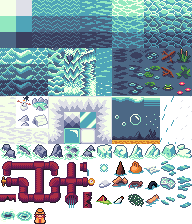
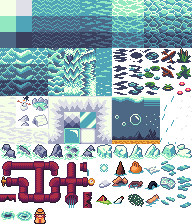
change sprites

Changed region(s): [[0.5625, 0.1875, 1.0, 0.4375]]

diff --git a/src/map.cpp b/src/map.cpp
@@ -32,15 +32,10 @@ void displayMap(std::vector<Cell> const &map)
     }
 }
 
-unsigned int generateMapValue(bool const random) // TODO : remove random at the end of the project and the if (random)
+unsigned int generateMapValue()
 {
-    if (random)
-    {
-        // TODO : possible to change std::rand to take into account probabilities
-        int mapValue{std::rand() % 2}; // return 0 or 1 --> empty or plain
-        return mapValue;
-    }
-    return 1;
+    int mapValue{std::rand() % 2}; // return 0 or 1 --> empty or plain
+    return mapValue;
 }
 
 std::vector<Cell> generateMap(size_t const height, size_t const width)
@@ -51,10 +46,8 @@ std::vector<Cell> generateMap(size_t const height, size_t const width)
     {
         for (size_t x{}; x < width; x++)
         {
-            unsigned int value{generateMapValue(true)};
+            unsigned int value{generateMapValue()};
             Cell cell{{x, y}, value};
-            // std::cout << cell.positions.x << ", " << cell.positions.y << "; ";
-
             map.push_back(cell);
         }
     }
@@ -104,10 +97,6 @@ std::optional<Cell> findNeighbour(std::vector<Cell> const &map, Cell const &cell
 std::vector<Cell> adjacentCells(std::vector<Cell> const &map, Cell const &cell) // return vect of adjacent cells
 {
     std::vector<Cell> neighbours{};
-
-    // std::cout << "actuel : \n \tx : " << cell.positions.x << ", y : " << cell.positions.y << ", value : " << cell.value << std::endl;
-
-    // std::cout << "voisins : " << std::endl;
     for (int y{-1}; y <= 1; y++)
     {
         for (int x{1}; x >= -1; x--)
@@ -116,8 +105,6 @@ std::vector<Cell> adjacentCells(std::vector<Cell> const &map, Cell const &cell) 
             if ((x != 0 || y != 0) && adjacentCell.has_value())
             {
                 neighbours.push_back(adjacentCell.value());
-                // std::cout << "\tx : " << adjacentCell.value().positions.x << ", y : " << adjacentCell.value().positions.y
-                //           << ", value : " << adjacentCell.value().value << std::endl;
             }
         }
     }
@@ -168,7 +155,8 @@ std::vector<Cell> generateCellularMap(std::vector<Cell> const &map, int nbIterat
 
 void displayValuedMap(std::vector<Cell> const &map)
 {
-    std::cout << "\n" << std::endl;
+    std::cout << "\n"
+              << std::endl;
 
     for (Cell cell : map)
     {
@@ -189,7 +177,8 @@ void displayValuedMap(std::vector<Cell> const &map)
 
 void displayDirectedMap(std::vector<CellDirection> const &map)
 {
-    std::cout << "\n" << std::endl;
+    std::cout << "\n"
+              << std::endl;
 
     for (CellDirection cell : map)
     {
@@ -224,39 +213,48 @@ void displayDirectedMap(std::vector<CellDirection> const &map)
     }
 }
 
-void addObjectsAndTraps(std::vector<Cell>& map) {
+void addObjectsAndTraps(std::vector<Cell> &map)
+{
     std::srand(std::time(nullptr));
-    
+
     // Collecter toutes les cellules d'eau
-    std::vector<Cell*> waterCells;
-    for(Cell& cell : map) {
-        if(cell.value == 0) {
+    std::vector<Cell *> waterCells;
+    for (Cell &cell : map)
+    {
+        if (cell.value == 0)
+        {
             waterCells.push_back(&cell);
         }
     }
-    
+
     // Mélanger les cellules pour un placement aléatoire
     std::random_shuffle(waterCells.begin(), waterCells.end());
-    
+
     int objectsPlaced = 0;
     int trapsPlaced = 0;
-    
+
     // Placer d'abord le nombre minimum d'objets requis
-    for(int i = 0; i < std::min(numberOfObjects, (int)waterCells.size()); i++) {
-        waterCells[i]->value = 4;  // Objet
+    for (int i = 0; i < std::min(numberOfObjects, (int)waterCells.size()); i++)
+    {
+        waterCells[i]->value = 4; // Objet
         objectsPlaced++;
     }
-    
+
     // Placer des pièges et objets supplémentaires de manière aléatoire
-    for(int i = numberOfObjects; i < waterCells.size(); i++) {
+    for (int i = numberOfObjects; i < waterCells.size(); i++)
+    {
         int probO = std::rand() % (probObjectSpawn + 1);
         int probT = std::rand() % (probTrap + 1);
-        
-        if(!((probO == probObjectSpawn) && (probT == probTrap))) {
-            if(probO == probObjectSpawn) {
+
+        if (!((probO == probObjectSpawn) && (probT == probTrap)))
+        {
+            if (probO == probObjectSpawn)
+            {
                 waterCells[i]->value = 4;
                 objectsPlaced++;
-            } else if (probT == probTrap) {
+            }
+            else if (probT == probTrap)
+            {
                 waterCells[i]->value = 5;
                 trapsPlaced++;
             }
@@ -264,33 +262,43 @@ void addObjectsAndTraps(std::vector<Cell>& map) {
     }
 }
 
-void addMinableBlocs(std::vector<Cell>& map) {
+void addMinableBlocs(std::vector<Cell> &map)
+{
     std::srand(std::time(nullptr));
 
-    for(Cell& cell: map) {
+    for (Cell &cell : map)
+    {
         int probMinableB{std::rand() % (probMinableBloc + 1)};
 
-        if(cell.value == 1) {
-            if(probMinableB == probMinableBloc) {
+        if (cell.value == 1)
+        {
+            if (probMinableB == probMinableBloc)
+            {
                 cell.value = 2;
-            } 
+            }
         }
     }
 }
 
-void addBonusBlocks(std::vector<Cell>& map) {
+void addBonusBlocks(std::vector<Cell> &map)
+{
     std::srand(std::time(nullptr));
 
-    for(Cell& cell: map) {
-        int probBonus{std::rand()%probBonusBloc};
-        int probBoost{std::rand()%probBoosterBloc};
+    for (Cell &cell : map)
+    {
+        int probBonus{std::rand() % probBonusBloc};
+        int probBoost{std::rand() % probBoosterBloc};
 
-        if(cell.value == 0) {
-            if(probBonus == 0) {
-                if(probBoost == 0){
+        if (cell.value == 0)
+        {
+            if (probBonus == 0)
+            {
+                if (probBoost == 0)
+                {
                     cell.value = 6;
                 }
-                else{
+                else
+                {
                     cell.value = 3;
                 }
             }

diff --git a/src/display.cpp b/src/display.cpp
@@ -29,12 +29,13 @@ std::vector<GLBI_Texture> allTextures{};
 SpriteSheet water{"assets/images/Water.png", 192, 224, 12, 16};
 SpriteSheet yellowDucky{"assets/images/yellow_ducky.png", 192, 128, 6, 4};
 SpriteSheet brownDucky{"assets/images/brown_ducky.png", 192, 128, 6, 4};
-// SpriteSheet otter{"assets/images/otter.png", 96, 69, 3};
+SpriteSheet otterSheet{"assets/images/otter.png", 96, 64, 3, 2};
 
 Sprite empty{water, {3, 8.465}, 1 / 16.f, 1 / 12.f};
-Sprite plain{water, {8, 1.2}, 1 / 12.f, 1 / 16.f};
+Sprite plain{water, {11, 9.25}, 1 / 12.f, 1 / 16.f};
 
 Sprite playerSprite{yellowDucky, {1, 0}, 1.0 / 6, 1.0 / 4};
+Sprite ennemySprite{otterSheet, {1, 1}, 1.0 / 3, 1.0 / 2};
 
 // GLBI_Texture myTextureTest{};
 
@@ -77,13 +78,13 @@ void setTypeCell(Cell const &cell)
         myEngine.setFlatColor(0.6f, 0.7f, 0);
         break;
     case 4:
-        myEngine.setFlatColor(0, 0, 0.2f); 
+        myEngine.setFlatColor(0, 0, 0.2f);
         break;
     case 5:
         myEngine.setFlatColor(0, 0, 1);
         break;
     case 6:
-        myEngine.setFlatColor(0.3f, 0, 0.2f); 
+        myEngine.setFlatColor(0.3f, 0, 0.2f);
         break;
     default:
         myEngine.setFlatColor(0, 0, 0); // Default
@@ -130,11 +131,6 @@ StandardMesh *createSharedCellMesh(SpriteSheet const &spritesheet, Sprite const 
     glm::vec2 topRight{u1, v1};
     glm::vec2 topLeft{u0, v1};
 
-    // glm::vec2 bottomLeft{0.0, 0.0};
-    // glm::vec2 bottomRight{1.0, 0.0};
-    // glm::vec2 topRight{1.0, 1.0};
-    // glm::vec2 topLeft{0.0, 1.0};
-
     std::vector<float>
         uvs{
             bottomLeft.x, bottomLeft.y,   // Bottom Left (0,0)
@@ -178,7 +174,13 @@ void updateEnemiesMesh(std::vector<Enemy> &enemies)
         myEngine.mvMatrixStack.addTranslation({x, y, 0.0f});
         myEngine.updateMvMatrix();
 
+        const GLBI_Texture &ennemyTexture{setTextureCell(3, allTextures)};
+        updateUVs(characterMesh, ennemySprite);
+        ennemyTexture.attachTexture();
         characterMesh->draw();
+        ennemyTexture.detachTexture();
+        updateUVs(characterMesh, playerSprite);
+
         myEngine.mvMatrixStack.popMatrix();
     }
 }
@@ -203,9 +205,21 @@ void drawBaseMap(std::vector<Cell> const &map)
         cellMesh->draw();
         cellTexture.detachTexture();
 
+        // switch (cell.value)
+        // {
+        // case 1:
+        //     GLBI_Texture &pngTexture{const_cast<GLBI_Texture &>(setTextureCell(0, allTextures))}; // use references
+        //     pngTexture.attachTexture();
+        //     pngMesh->draw();
+        //     pngTexture.detachTexture();
+        //     break;
+
+        // default:
+        //     break;
+        // }
         if (cell.value == 1)
         {
-            GLBI_Texture &cellTexture{const_cast<GLBI_Texture &>(setTextureCell(0, allTextures))}; // use references
+            GLBI_Texture &pngTexture{const_cast<GLBI_Texture &>(setTextureCell(0, allTextures))}; // use references
             // updateUVs(pngMesh, plain);
             cellTexture.attachTexture();
             pngMesh->draw();
@@ -333,7 +347,7 @@ void clearScene()
     enemies.clear();
     valuedMap.clear();
     directedMap.clear();
-    //allTextures.clear();
+    // allTextures.clear();
 
     player = Player{};
     enemies = std::vector<Enemy>();

diff --git a/src/texture.cpp b/src/texture.cpp
@@ -27,7 +27,6 @@ GLBI_Texture createOneTexture(const char *filename)
 
 std::vector<GLBI_Texture> initTextures()
 {
-    std::cout << "Initializing textures";
     std::vector<GLBI_Texture> allTextures{};
 
     std::array<char const *, 5> filenames{"assets/images/Water.png",
